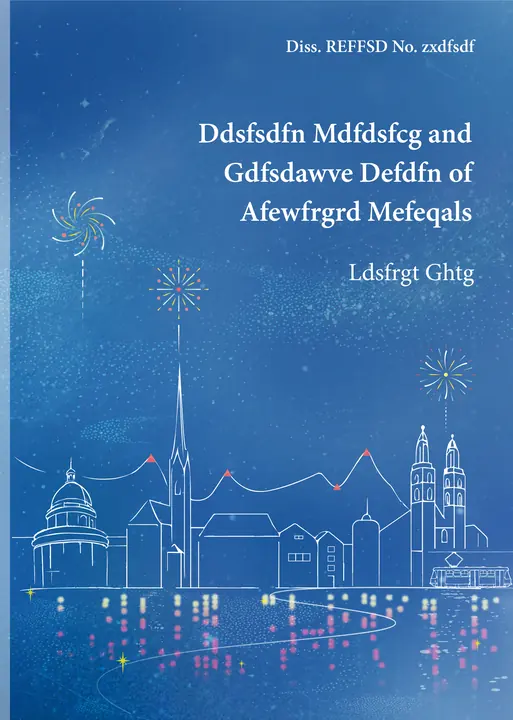
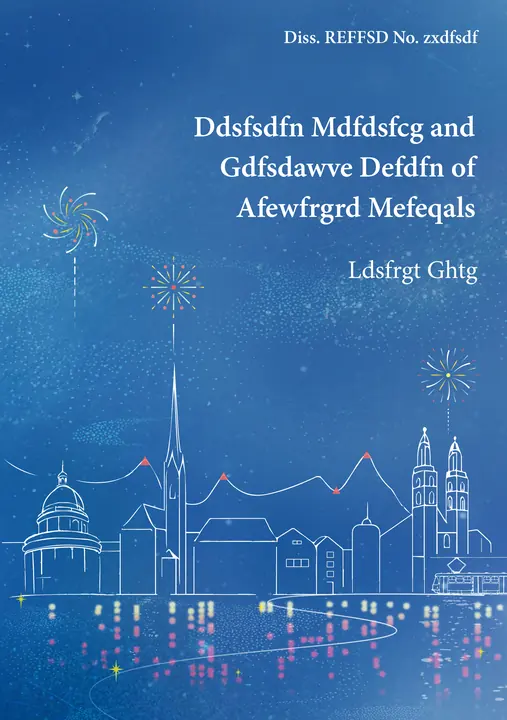
Replace P35 book artwork without bleed

diff --git a/index.html b/index.html
@@ -2,4 +2,4 @@
 <html lang="zh-CN"><head><meta charset="UTF-8" /><meta name="viewport" content="width=device-width, initial-scale=1.0" /><meta name="description" content="Our Friday Goldfish Studio — graphic design studio in the Netherlands." /><title>Our Friday Goldfish Studio</title><link rel="preconnect" href="https://fonts.googleapis.com" /><link rel="preconnect" href="https://fonts.gstatic.com" crossorigin /><link href="https://fonts.googleapis.com/css2?family=DM+Mono:wght@400;500&family=Noto+Sans+SC:wght@400;500;700;900&display=swap" rel="stylesheet" /><link rel="stylesheet" href="styles.css" /><link rel="stylesheet" href="reader-preview.css?v=8" /></head>
 <body><main class="site"><nav class="nav"><a class="brand" href="#home">OUR FRIDAY<br />GOLDFISH STUDIO<span>®</span></a><div class="nav-links"><button data-page="about">关于 OFG</button><button data-page="services">服务</button><button data-page="contract">合同下载</button><button data-page="contact">联系</button></div><a class="nav-mail" href="mailto:hello@ourfridaygoldfish.com">SAY HELLO ↗</a></nav>
 <section id="home" class="hero"><p class="hero-kicker">SELECTED WORKS · 2022—2026</p><h1>Our Friday<br /><em>Goldfish</em></h1><p class="hero-subtitle">研究、出版与视觉表达的<br />平面设计工作室。</p><div id="marquee" class="marquee" aria-label="OFG Studio 作品展示"><div id="track" class="marquee-track"></div></div><div class="hero-actions"><button data-page="about">关于 OFG <span>↗</span></button><button data-page="services">设计服务 <span>↗</span></button><button data-page="contract">合同下载 <span>↗</span></button><button data-page="contact">开始合作 <span>↗</span></button></div><p class="marquee-note">HOVER TO PAUSE · DRAG TO EXPLORE</p></section>
-<section id="panel" class="panel" hidden><button id="close-panel" class="close" aria-label="关闭页面">×</button><article id="about" class="page" hidden><p class="label">01 / ABOUT OFG</p><h2>小小的工作室，<br />大大的视觉冒险。</h2><p>我们是 base 在荷兰的平面设计事务所，Our Friday Goldfish Studio。接单各类封面设计、海报设计、平面设计、书籍装帧设计。</p><p>可开发票，与荷兰知名大学各博士项目组已有长期合作。博士生可向组内提交封面设计经费报销。</p></article><article id="services" class="page" hidden><p class="label">02 / SERVICES</p><h2>透明、完整、<br />刚刚好的设计服务。</h2><div class="price"><b>300€</b><span>THESIS PACKAGE</span></div><ul><li>封面、封底与书脊</li><li>答辩 Invitation 笺页</li><li>PPT 汇报首页背景图</li><li>打印前所有格式调整</li></ul><p>另有内页排版等服务，根据章节数报价。</p></article><article id="contract" class="page" hidden><p class="label">03 / CONTRACT</p><h2>先说清楚，<br />才可以放心开始。</h2><p><strong>自费：</strong>300€，100€ 定金 + 200€ 尾款。<br /><strong>公费：</strong>490€ 正式商业发票，含税费与法定费用。</p><p>正常周期为 3–4 周；可免费走急单通道，最快一周出图。</p><button class="download" disabled>PDF 合同即将提供</button></article><article id="contact" class="page" hidden><p class="label">04 / CONTACT</p><h2>把你的想法<br />交给我们。</h2><p>请附上研究主题、交稿时间和已有的视觉想法。</p><a class="email" href="mailto:hello@ourfridaygoldfish.com">hello@ourfridaygoldfish.com ↗</a><p class="small">通常 2 个工作日内回复。</p></article></section><footer>© 2026 OUR FRIDAY GOLDFISH STUDIO · AMSTERDAM, THE NETHERLANDS</footer></main><script src="script.js?v=20260923-cover-colours"></script><script src="reader-preview.js?v=6"></script></body></html>
+<section id="panel" class="panel" hidden><button id="close-panel" class="close" aria-label="关闭页面">×</button><article id="about" class="page" hidden><p class="label">01 / ABOUT OFG</p><h2>小小的工作室，<br />大大的视觉冒险。</h2><p>我们是 base 在荷兰的平面设计事务所，Our Friday Goldfish Studio。接单各类封面设计、海报设计、平面设计、书籍装帧设计。</p><p>可开发票，与荷兰知名大学各博士项目组已有长期合作。博士生可向组内提交封面设计经费报销。</p></article><article id="services" class="page" hidden><p class="label">02 / SERVICES</p><h2>透明、完整、<br />刚刚好的设计服务。</h2><div class="price"><b>300€</b><span>THESIS PACKAGE</span></div><ul><li>封面、封底与书脊</li><li>答辩 Invitation 笺页</li><li>PPT 汇报首页背景图</li><li>打印前所有格式调整</li></ul><p>另有内页排版等服务，根据章节数报价。</p></article><article id="contract" class="page" hidden><p class="label">03 / CONTRACT</p><h2>先说清楚，<br />才可以放心开始。</h2><p><strong>自费：</strong>300€，100€ 定金 + 200€ 尾款。<br /><strong>公费：</strong>490€ 正式商业发票，含税费与法定费用。</p><p>正常周期为 3–4 周；可免费走急单通道，最快一周出图。</p><button class="download" disabled>PDF 合同即将提供</button></article><article id="contact" class="page" hidden><p class="label">04 / CONTACT</p><h2>把你的想法<br />交给我们。</h2><p>请附上研究主题、交稿时间和已有的视觉想法。</p><a class="email" href="mailto:hello@ourfridaygoldfish.com">hello@ourfridaygoldfish.com ↗</a><p class="small">通常 2 个工作日内回复。</p></article></section><footer>© 2026 OUR FRIDAY GOLDFISH STUDIO · AMSTERDAM, THE NETHERLANDS</footer></main><script src="script.js?v=20260923-p35-trim"></script><script src="reader-preview.js?v=7"></script></body></html>

diff --git a/reader-preview.html b/reader-preview.html
@@ -2,4 +2,4 @@
 <html lang="zh-CN"><head><meta charset="UTF-8" /><meta name="viewport" content="width=device-width, initial-scale=1.0" /><meta name="description" content="Our Friday Goldfish Studio — graphic design studio in the Netherlands." /><title>Our Friday Goldfish Studio</title><link rel="preconnect" href="https://fonts.googleapis.com" /><link rel="preconnect" href="https://fonts.gstatic.com" crossorigin /><link href="https://fonts.googleapis.com/css2?family=DM+Mono:wght@400;500&family=Noto+Sans+SC:wght@400;500;700;900&display=swap" rel="stylesheet" /><link rel="stylesheet" href="styles.css" /><link rel="stylesheet" href="reader-preview.css?v=8"></head>
 <body><main class="site"><nav class="nav"><a class="brand" href="#home">OUR FRIDAY<br />GOLDFISH STUDIO<span>®</span></a><div class="nav-links"><button data-page="about">关于 OFG</button><button data-page="services">服务</button><button data-page="contract">合同下载</button><button data-page="contact">联系</button></div><a class="nav-mail" href="mailto:hello@ourfridaygoldfish.com">SAY HELLO ↗</a></nav>
 <section id="home" class="hero"><p class="hero-kicker">SELECTED WORKS · 2022—2026</p><h1>Our Friday<br /><em>Goldfish</em></h1><p class="hero-subtitle">研究、出版与视觉表达的<br />平面设计工作室。</p><div id="marquee" class="marquee" aria-label="OFG Studio 作品展示"><div id="track" class="marquee-track"></div></div><div class="hero-actions"><button data-page="about">关于 OFG <span>↗</span></button><button data-page="services">设计服务 <span>↗</span></button><button data-page="contract">合同下载 <span>↗</span></button><button data-page="contact">开始合作 <span>↗</span></button></div><p class="marquee-note">HOVER TO PAUSE · DRAG TO EXPLORE</p></section>
-<section id="panel" class="panel" hidden><button id="close-panel" class="close" aria-label="关闭页面">×</button><article id="about" class="page" hidden><p class="label">01 / ABOUT OFG</p><h2>小小的工作室，<br />大大的视觉冒险。</h2><p>我们是 base 在荷兰的平面设计事务所，Our Friday Goldfish Studio。接单各类封面设计、海报设计、平面设计、书籍装帧设计。</p><p>可开发票，与荷兰知名大学各博士项目组已有长期合作。博士生可向组内提交封面设计经费报销。</p></article><article id="services" class="page" hidden><p class="label">02 / SERVICES</p><h2>透明、完整、<br />刚刚好的设计服务。</h2><div class="price"><b>300€</b><span>THESIS PACKAGE</span></div><ul><li>封面、封底与书脊</li><li>答辩 Invitation 笺页</li><li>PPT 汇报首页背景图</li><li>打印前所有格式调整</li></ul><p>另有内页排版等服务，根据章节数报价。</p></article><article id="contract" class="page" hidden><p class="label">03 / CONTRACT</p><h2>先说清楚，<br />才可以放心开始。</h2><p><strong>自费：</strong>300€，100€ 定金 + 200€ 尾款。<br /><strong>公费：</strong>490€ 正式商业发票，含税费与法定费用。</p><p>正常周期为 3–4 周；可免费走急单通道，最快一周出图。</p><button class="download" disabled>PDF 合同即将提供</button></article><article id="contact" class="page" hidden><p class="label">04 / CONTACT</p><h2>把你的想法<br />交给我们。</h2><p>请附上研究主题、交稿时间和已有的视觉想法。</p><a class="email" href="mailto:hello@ourfridaygoldfish.com">hello@ourfridaygoldfish.com ↗</a><p class="small">通常 2 个工作日内回复。</p></article></section><footer>© 2026 OUR FRIDAY GOLDFISH STUDIO · AMSTERDAM, THE NETHERLANDS</footer></main><script src="script.js?v=20260923-cover-colours"></script><script src="reader-preview.js?v=6"></script></body></html>
+<section id="panel" class="panel" hidden><button id="close-panel" class="close" aria-label="关闭页面">×</button><article id="about" class="page" hidden><p class="label">01 / ABOUT OFG</p><h2>小小的工作室，<br />大大的视觉冒险。</h2><p>我们是 base 在荷兰的平面设计事务所，Our Friday Goldfish Studio。接单各类封面设计、海报设计、平面设计、书籍装帧设计。</p><p>可开发票，与荷兰知名大学各博士项目组已有长期合作。博士生可向组内提交封面设计经费报销。</p></article><article id="services" class="page" hidden><p class="label">02 / SERVICES</p><h2>透明、完整、<br />刚刚好的设计服务。</h2><div class="price"><b>300€</b><span>THESIS PACKAGE</span></div><ul><li>封面、封底与书脊</li><li>答辩 Invitation 笺页</li><li>PPT 汇报首页背景图</li><li>打印前所有格式调整</li></ul><p>另有内页排版等服务，根据章节数报价。</p></article><article id="contract" class="page" hidden><p class="label">03 / CONTRACT</p><h2>先说清楚，<br />才可以放心开始。</h2><p><strong>自费：</strong>300€，100€ 定金 + 200€ 尾款。<br /><strong>公费：</strong>490€ 正式商业发票，含税费与法定费用。</p><p>正常周期为 3–4 周；可免费走急单通道，最快一周出图。</p><button class="download" disabled>PDF 合同即将提供</button></article><article id="contact" class="page" hidden><p class="label">04 / CONTACT</p><h2>把你的想法<br />交给我们。</h2><p>请附上研究主题、交稿时间和已有的视觉想法。</p><a class="email" href="mailto:hello@ourfridaygoldfish.com">hello@ourfridaygoldfish.com ↗</a><p class="small">通常 2 个工作日内回复。</p></article></section><footer>© 2026 OUR FRIDAY GOLDFISH STUDIO · AMSTERDAM, THE NETHERLANDS</footer></main><script src="script.js?v=20260923-p35-trim"></script><script src="reader-preview.js?v=7"></script></body></html>

diff --git a/script.js b/script.js
@@ -35,7 +35,7 @@ const heroArtSources = [
   ['assets/background-art/projects/safe-p29-1.jpg', '50% 52%', '155%'],
   ['assets/background-art/projects/safe-p30-1.jpg', '50% 50%', '155%'],
   ['assets/background-art/projects/safe-p33-1.jpg', '50% 54%', '155%'],
-  ['assets/background-art/projects/safe-p35-1.webp', '50% 48%', '155%']
+  ['assets/background-art/projects/safe-p35-1.webp?v=20260923-trim', '50% 48%', '155%']
 ];
 document.querySelectorAll('[data-art-block]').forEach((block, blockIndex) => {
   let previous = -1;
@@ -352,14 +352,15 @@ fetch('projects.json?v=20260923-p35').then((response) => response.json()).then((
     return aa[0] - bb[0] || aa[1] - bb[1] || aa[2] - bb[2] || a.id.localeCompare(b.id);
   });
   const splitBookAsset = (id, face) => {
+    const version = id === 'p35' ? '?v=20260923-trim' : '';
     if (id === 'p31' || id === 'p32') {
       const fileId = id === 'p31' ? 'P31' : 'P32';
-      return `assets/books/${encodeURIComponent('拆分封面封底')}/${fileId}%20${face}.jpg`;
+      return `assets/books/${encodeURIComponent('拆分封面封底')}/${fileId}%20${face}.jpg${version}`;
     }
     const fileFace = id === 'p21' && face === 'spine' ? 'spin' : face;
-    return `assets/books/${encodeURIComponent('拆分封面封底')}/${id}-${fileFace}.jpg`;
+    return `assets/books/${encodeURIComponent('拆分封面封底')}/${id}-${fileFace}.jpg${version}`;
   };
-  const shelfBookAsset = (id, face) => `assets/shelf/${id}-${face}.webp`;
+  const shelfBookAsset = (id, face) => `assets/shelf/${id}-${face}.webp${id === 'p35' ? '?v=20260923-trim' : ''}`;
   const bookMarkup = (project, index, className = '') => {
     // Keep every cover facing the reader with its spine subtly exposed.
     const turns = [-27, -24, -21, -18, -15, -12, -9, -6];

diff --git a/reader-preview.js b/reader-preview.js
@@ -1,6 +1,6 @@
 (() => {
   const esc=s=>String(s).replace(/[&<>"']/g,c=>({'&':'&amp;','<':'&lt;','>':'&gt;','"':'&quot;',"'":'&#39;'}[c]));
-  const face=(id,part)=>`assets/books/${encodeURIComponent('拆分封面封底')}/${['p31','p32'].includes(id)?id.toUpperCase()+'%20'+part:id+'-'+(id==='p21'&&part==='spine'?'spin':part)}.jpg`;
+  const face=(id,part)=>`assets/books/${encodeURIComponent('拆分封面封底')}/${['p31','p32'].includes(id)?id.toUpperCase()+'%20'+part:id+'-'+(id==='p21'&&part==='spine'?'spin':part)}.jpg${id==='p35'?'?v=20260923-trim':''}`;
   const textures=['linen','vertical-ribbed','cotton-pulp','coated','book-cloth','lychee-leather','debossed-board'];
   const textureFor=id=>textures[(Math.max(1,parseInt(String(id).replace(/\D/g,''),10)||1)-1)%textures.length];
   const decorateShelf=()=>document.querySelectorAll('.book[data-project]').forEach(book=>{book.dataset.texture=textureFor(book.dataset.project)});
